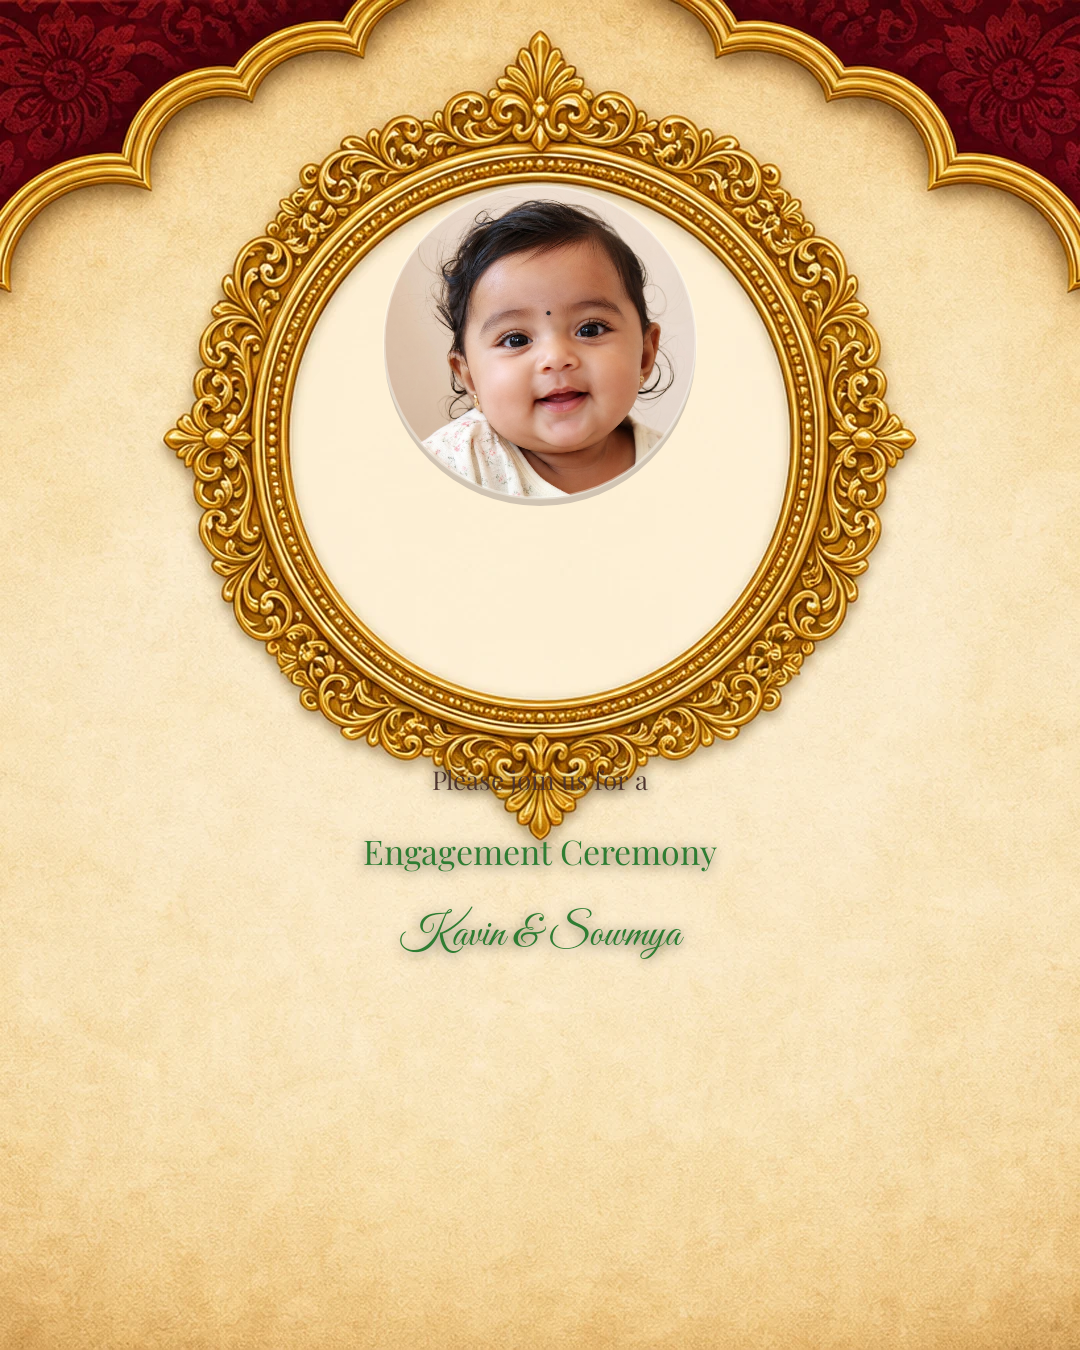
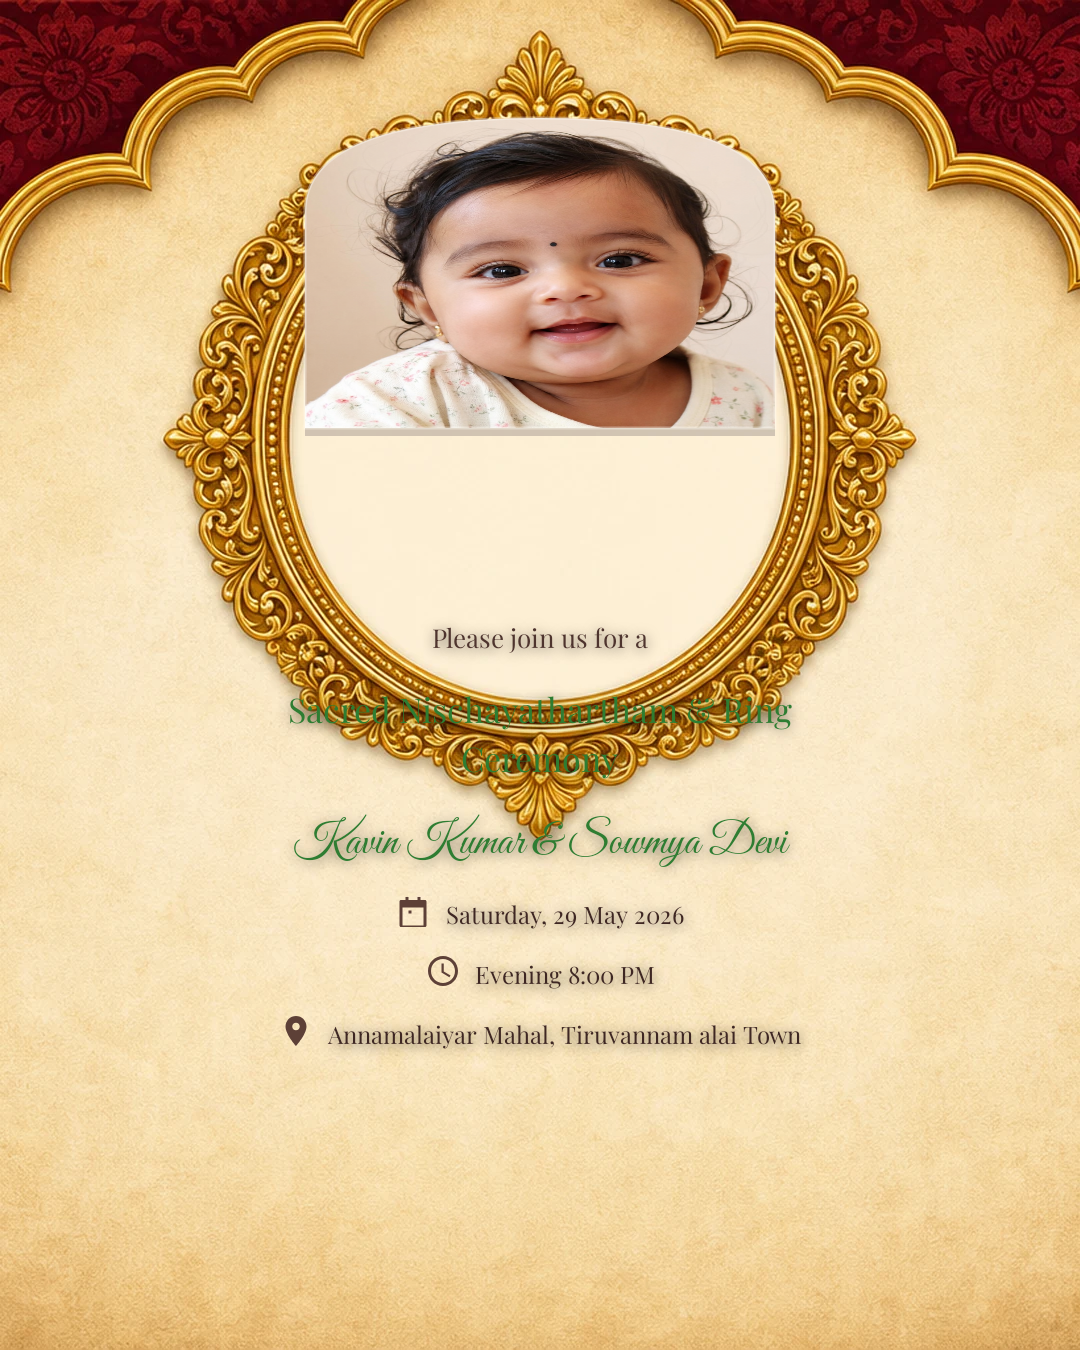
Use temple arch masks on engagement 01/02; expand text band
- Replace circle and rounded-rect photo clips with scalloped CEREMONY_ARCH
- Shorter arch photo area leaves more room for max-length form fields
- Text zone bottom 1090 with message area to 1055
- Rename templates to Gold Scallop Arch and Marigold Temple Arch
- Add max-length render test; use Robolectric for layout tests

Changed region(s): [[0.275, 0.0622, 0.7333, 0.3733], [0.2444, 0.4667, 0.7333, 0.7778]]

diff --git a/app/src/test/java/com/vaangainvite/core/image/EngagementMaxTextRenderTest.kt b/app/src/test/java/com/vaangainvite/core/image/EngagementMaxTextRenderTest.kt
@@ -1,0 +1,58 @@
+package com.vaangainvite.core.image
+
+import android.net.Uri
+import androidx.test.core.app.ApplicationProvider
+import com.vaangainvite.data.model.InvitationDetails
+import com.vaangainvite.data.model.InvitationLanguage
+import com.vaangainvite.data.model.InvitationFieldLimits
+import com.vaangainvite.data.repository.TemplateRepository
+import org.junit.Assert.assertFalse
+import org.junit.Test
+import org.junit.runner.RunWith
+import org.robolectric.RobolectricTestRunner
+import org.robolectric.annotation.GraphicsMode
+import java.io.File
+import java.io.FileOutputStream
+
+@RunWith(RobolectricTestRunner::class)
+@GraphicsMode(GraphicsMode.Mode.NATIVE)
+class EngagementMaxTextRenderTest {
+
+    @Test
+    fun engagement01And02RenderMaxLengthWithoutMessageTruncation() {
+        val context = ApplicationProvider.getApplicationContext<android.content.Context>()
+        val generator = InvitationImageGenerator(context)
+        val repo = TemplateRepository()
+        val photoUri = copySamplePhoto(context.cacheDir)
+        val details = InvitationDetails(
+            occasionTitle = "E".repeat(InvitationFieldLimits.OCCASION_MAX_LENGTH),
+            name = "N".repeat(InvitationFieldLimits.NAME_MAX_LENGTH),
+            date = "D".repeat(InvitationFieldLimits.DATE_MAX_LENGTH),
+            time = "T".repeat(InvitationFieldLimits.TIME_MAX_LENGTH),
+            venue = "V".repeat(InvitationFieldLimits.VENUE_MAX_LENGTH),
+            mobileNumber = "+".repeat(InvitationFieldLimits.MOBILE_MAX_LENGTH),
+            message = "M".repeat(InvitationFieldLimits.MESSAGE_MAX_LENGTH_WITH_PHOTO)
+        )
+
+        listOf("engagement_01", "engagement_02").forEach { id ->
+            val template = repo.templateById(id) ?: return@forEach
+            val report = generator.createInvitationBitmap(
+                template = template,
+                details = details,
+                language = InvitationLanguage.ENGLISH,
+                uploadedPhotoUri = photoUri
+            ).renderReport
+            assertFalse("$id message truncated", report.messageTruncated)
+        }
+    }
+
+    private fun copySamplePhoto(cacheDir: File): Uri {
+        val outFile = File(cacheDir, "engagement_max_text_portrait.png")
+        if (!outFile.exists()) {
+            val stream = javaClass.classLoader!!.getResourceAsStream("samples/couple_portrait.png")
+                ?: error("Missing test resource samples/couple_portrait.png")
+            FileOutputStream(outFile).use { out -> stream.copyTo(out) }
+        }
+        return Uri.fromFile(outFile)
+    }
+}

diff --git a/app/src/test/java/com/vaangainvite/core/image/EngagementLayoutTest.kt b/app/src/test/java/com/vaangainvite/core/image/EngagementLayoutTest.kt
@@ -1,27 +1,49 @@
 package com.vaangainvite.core.image
 
 import org.junit.Assert.assertEquals
-import org.junit.Assert.assertNotEquals
 import org.junit.Assert.assertTrue
 import org.junit.Test
+import org.junit.runner.RunWith
+import org.robolectric.RobolectricTestRunner
 
+@RunWith(RobolectricTestRunner::class)
 class EngagementLayoutTest {
 
     @Test
-    fun templates01And02UseDifferentPhotoShapes() {
+    fun templates01And02UseTraditionalArchNotRoundMasks() {
+        val roundMasks = setOf(
+            EngagementPhotoPlacement.Mask.MEDALLION_CIRCLE,
+            EngagementPhotoPlacement.Mask.PORTRAIT_OVAL,
+            EngagementPhotoPlacement.Mask.ROUNDED_RECT
+        )
         val first = EngagementPhotoPlacement.specFor("engagement_01").mask
         val second = EngagementPhotoPlacement.specFor("engagement_02").mask
-        assertEquals(EngagementPhotoPlacement.Mask.MEDALLION_CIRCLE, first)
-        assertEquals(EngagementPhotoPlacement.Mask.ROUNDED_RECT, second)
-        assertNotEquals(first, second)
+        assertEquals(EngagementPhotoPlacement.Mask.CEREMONY_ARCH, first)
+        assertEquals(EngagementPhotoPlacement.Mask.CEREMONY_ARCH, second)
+        assertTrue(first !in roundMasks)
+        assertTrue(second !in roundMasks)
     }
 
     @Test
-    fun engagementSetUsesFourPlusMaskShapes() {
+    fun engagement01And02TextZoneFitsMaxLengthCopy() {
+        val minHeight = 400f
+        listOf("engagement_01", "engagement_02").forEach { id ->
+            val zone = InvitationLayout.photoTextZone(id, hasUploadedPhoto = true)
+            val startY = InvitationLayout.textStartY(id, hasUploadedPhoto = true)
+            val available = zone.bottom - startY
+            assertTrue(
+                "$id text band height ${available}px (start=$startY, bottom=${zone.bottom})",
+                available >= minHeight
+            )
+        }
+    }
+
+    @Test
+    fun engagementSetUsesThreePlusMaskShapes() {
         val masks = (1..5).map { i ->
             EngagementPhotoPlacement.specFor("engagement_%02d".format(i)).mask
         }
-        assertTrue(masks.toSet().size >= 4)
+        assertTrue(masks.toSet().size >= 3)
     }
 
     @Test

diff --git a/app/src/main/java/com/vaangainvite/core/image/InvitationLayout.kt b/app/src/main/java/com/vaangainvite/core/image/InvitationLayout.kt
@@ -83,22 +83,22 @@ internal object InvitationLayout {
         // Engagement WebPs — per-card cream band (measured on designed 1080×1350 art)
         // Photo shapes differ per card — text starts below each mask
         "engagement_01" to TextZoneSpec(
-            left = 235f,
-            right = 845f,
-            topNoPhoto = 748f,
-            topWithPhoto = 756f,
-            bottom = 1002f,
-            messageBottom = 952f,
-            photoTextGap = 20f
+            left = 228f,
+            right = 852f,
+            topNoPhoto = 608f,
+            topWithPhoto = 616f,
+            bottom = 1090f,
+            messageBottom = 1055f,
+            photoTextGap = 18f
         ),
         "engagement_02" to TextZoneSpec(
-            left = 220f,
-            right = 860f,
-            topNoPhoto = 708f,
-            topWithPhoto = 716f,
-            bottom = 1000f,
-            messageBottom = 950f,
-            photoTextGap = 20f
+            left = 215f,
+            right = 865f,
+            topNoPhoto = 652f,
+            topWithPhoto = 660f,
+            bottom = 1090f,
+            messageBottom = 1055f,
+            photoTextGap = 18f
         ),
         "engagement_03" to TextZoneSpec(
             left = 235f,

diff --git a/app/src/main/java/com/vaangainvite/data/repository/TemplateRepository.kt b/app/src/main/java/com/vaangainvite/data/repository/TemplateRepository.kt
@@ -214,20 +214,20 @@ class TemplateRepository {
             primaryColor = 0xFF7B1FA2.toInt()
         ),
 
-        // Engagement — five photo shapes: circle, oval, arch, hex, rounded rect
+        // Engagement — temple arch (01–03), hex, rounded rect
         photoTemplate(
             id = "engagement_01",
             categoryId = "engagement",
-            title = "Gold Ring Medallion",
-            description = "Traditional — circular gold ring photo, cream text below.",
+            title = "Gold Scallop Arch",
+            description = "Traditional — scalloped arch photo, marigold & lotus.",
             resId = R.drawable.bg_engagement_01,
             primaryColor = 0xFF2E7D32.toInt()
         ),
         photoTemplate(
             id = "engagement_02",
             categoryId = "engagement",
-            title = "Marigold Classic Frame",
-            description = "Traditional — portrait photo in cream panel, marigold toran.",
+            title = "Marigold Temple Arch",
+            description = "Traditional — scalloped arch photo, cream text panel below.",
             resId = R.drawable.bg_engagement_02,
             primaryColor = 0xFFB71C1C.toInt()
         ),

diff --git a/app/src/test/java/com/vaangainvite/core/image/EngagementSampleExportTest.kt b/app/src/test/java/com/vaangainvite/core/image/EngagementSampleExportTest.kt
@@ -35,13 +35,23 @@ class EngagementSampleExportTest {
             mobileNumber = "+91 98765 43210",
             message = "Your presence means a lot."
         )
+        val maxDetails = InvitationDetails(
+            occasionTitle = "Sacred Nischayathartham & Ring Ceremony",
+            name = "Kavin Kumar & Sowmya Devi",
+            date = "Saturday, 29 May 2026",
+            time = "Evening 8:00 PM",
+            venue = "Annamalaiyar Mahal, Tiruvannamalai Town",
+            mobileNumber = "+91 98765 43210",
+            message = "Your blessings mean the world to our families."
+        )
 
         (1..5).forEach { index ->
             val id = "engagement_%02d".format(index)
             val template = repo.templateById(id) ?: return@forEach
+            val cardDetails = if (index <= 2) maxDetails else details
             val bitmap = generator.createInvitationBitmap(
                 template = template,
-                details = details,
+                details = cardDetails,
                 language = InvitationLanguage.ENGLISH,
                 uploadedPhotoUri = photoUri
             ).bitmap

diff --git a/app/src/main/java/com/vaangainvite/core/image/EngagementPhotoPlacement.kt b/app/src/main/java/com/vaangainvite/core/image/EngagementPhotoPlacement.kt
@@ -34,15 +34,14 @@ internal object EngagementPhotoPlacement {
 
     private val specs = mapOf(
         "engagement_01" to Spec(
-            bounds = RectF(384f, 186f, 696f, 498f),
-            mask = Mask.MEDALLION_CIRCLE,
-            ornamentBottom = 738f
+            bounds = RectF(305f, 118f, 775f, 428f),
+            mask = Mask.CEREMONY_ARCH,
+            ornamentBottom = 592f
         ),
         "engagement_02" to Spec(
-            bounds = RectF(285f, 152f, 795f, 478f),
-            mask = Mask.ROUNDED_RECT,
-            roundRectRadius = 22f,
-            ornamentBottom = 688f
+            bounds = RectF(278f, 108f, 802f, 422f),
+            mask = Mask.CEREMONY_ARCH,
+            ornamentBottom = 638f
         ),
         "engagement_03" to Spec(
             bounds = RectF(318f, 122f, 762f, 438f),

diff --git a/docs/samples/engagement/README.md b/docs/samples/engagement/README.md
@@ -2,8 +2,8 @@
 
 | ID | Title | Photo pattern |
 |----|--------|----------------|
-| engagement_01 | Gold Ring Medallion | **Circle** |
-| engagement_02 | Marigold Classic Frame | **Rounded rectangle** |
+| engagement_01 | Gold Scallop Arch | **Scalloped arch** |
+| engagement_02 | Marigold Temple Arch | **Scalloped arch** |
 | engagement_03 | Peacock Temple Arch | **Scalloped arch** |
 | engagement_04 | Rose Hex Modern | **Hexagon** |
 | engagement_05 | Sage Soft Frame | **Rounded rectangle** |
